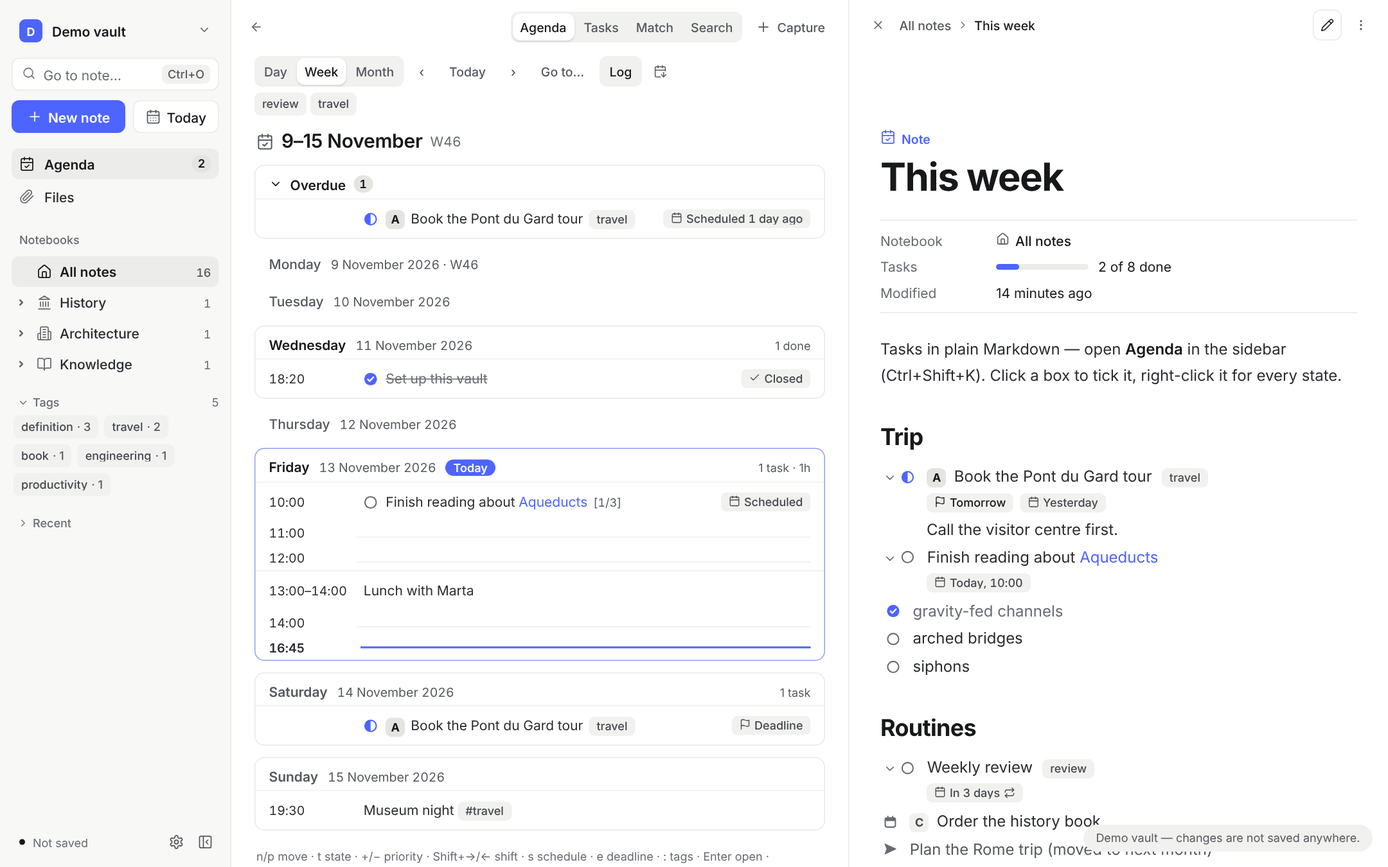
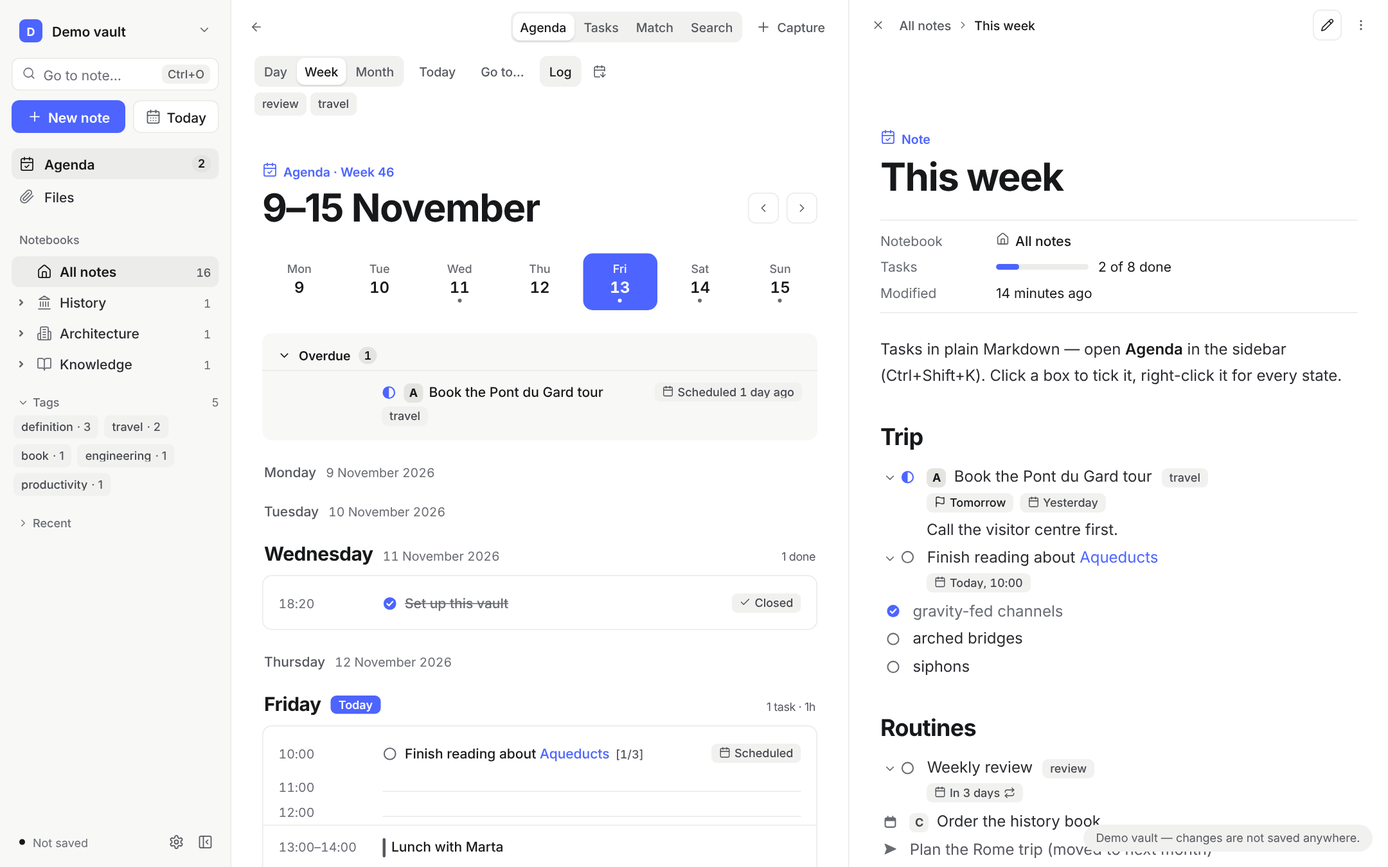
Restyle stage 7: the agenda
The agenda reads as a page of 760px: over its title, what it shows in
the accent ("Agenda · Week 46"); the days' and the month's title is at
the page's size with ‹ and › beside it, which leave the bar. The week's
strip of days shows at every width, today on the accent. Overdue is a
quiet block on the grey. Each day's name stands over the card of its
rows, today with a Today plate in place of its date; rows are roomier,
times faint, and an event gets a short bar where a task has its box.
The month marks today with a circle. The Tasks, Match and Search views
take the same head over their 20px sentence.

Tests: the week's number is read from the line over the title, › is
pressed at the title, and the agenda's title joins the note's as the
page's type. The README screenshots add the phone's agenda and a dark
note.

Claude-Session: https://claude.ai/code/session_01FMk1W3xjGAnUwDM3D7HQLZ

diff --git a/web/src/css/agenda.css b/web/src/css/agenda.css
@@ -32,34 +32,46 @@ button.sn-btn.wb-tasks.is-active { border-color: var(--accent); }
   .agbar > .sn-seg::-webkit-scrollbar { display: none; }
   .agbar > .sn-seg > button { flex: none; white-space: nowrap; }
 }
-.ag-body { display: flex; flex-direction: column; gap: var(--sp-12); min-height: 100%; padding: var(--sp-6) var(--sp-24) var(--sp-48); }
+/* the agenda reads as a page: one column of 760px at most, centred (restyle RS-55) */
+.ag-body { display: flex; flex-direction: column; gap: var(--sp-24); width: 100%; max-width: 760px; min-height: 100%; margin: 0 auto; padding: var(--sp-40) var(--sp-32) var(--sp-48); }
+@container (max-width: 560px) { .ag-body { padding: var(--sp-24) var(--sp-16) var(--sp-48); } }
 
-/* the screen title, in the look of the list of notes and Files (app.css) */
-.ag-title { display: flex; align-items: center; flex-wrap: wrap; gap: 0 var(--sp-8); padding: 0 var(--sp-2); color: var(--muted); font-size: var(--fs-lg); line-height: var(--lh-tight); }
-.ag-title b { color: var(--ink); font-weight: var(--fw-semibold); letter-spacing: -.01em; }
-.ag-title .ag-week { color: var(--faint); font-size: var(--fs-md); font-variant-numeric: tabular-nums; }
-/* a day (or the list of a TODO, match or search view) is a card, like a code block or a table */
+/* a view's head: what it shows in the accent, then its title at the page's size with ‹ and › beside it (RS-58, RS-59) */
+.ag-head { display: flex; flex-direction: column; gap: var(--sp-6); }
+.ag-kind { display: flex; align-items: center; gap: var(--sp-6); color: var(--accent); font-size: var(--fs-ui); font-weight: var(--fw-semibold); }
+.ag-kind svg { width: var(--icon-m); height: var(--icon-m); }
+.ag-title-row { display: flex; align-items: center; gap: var(--sp-8); min-width: 0; }
+.ag-title { flex: 1 1 auto; min-width: 0; color: var(--muted); font-size: var(--fs-lg); line-height: var(--lh-title); }
+.ag-title b { color: var(--ink); font-weight: var(--fw-semibold); }
+/* the days and the month: the title at the page's size; the lists keep their sentence at 20px */
+.ag-head.is-page .ag-title b { font-size: var(--fs-title); font-weight: var(--fw-bold); letter-spacing: var(--ls-title); }
+.sn-board button.clickable-icon.ag-nav { flex: none; width: var(--ctl-l); height: var(--ctl-l); padding: 0; border: 1px solid var(--line); border-radius: var(--r-s); }
+.sn-board button.clickable-icon.ag-nav:hover { background: var(--hover-bg); }
+/* a TODO, match or search view lists its rows on a card, like a code block or a table */
 .ag-card { border: 1px solid var(--line); border-radius: var(--r-m); background: var(--win); overflow: hidden; }
-.ag-card.is-today { border-color: color-mix(in srgb, var(--accent) 55%, var(--line)); }
-.ag-day { display: flex; align-items: baseline; gap: var(--sp-10); padding: var(--sp-10) var(--sp-14); font-weight: var(--fw-semibold); font-size: var(--fs-md); color: var(--ink); text-transform: capitalize; }
-.ag-card:not(.is-empty) > .ag-day { padding-bottom: var(--sp-6); }
+/* a day: its head over the card of its rows (RS-62 to RS-64) */
+.ag-card.is-day { border: 0 solid transparent; background: none; overflow: visible; }
+.ag-rows { padding: var(--sp-6) 0; border: 1px solid var(--line); border-radius: var(--r-m); background: var(--win); overflow: hidden; }
+.ag-day { display: flex; align-items: baseline; gap: var(--sp-10); padding: 0 var(--sp-2) var(--sp-10); color: var(--ink); font-size: var(--fs-lg); font-weight: var(--fw-bold); letter-spacing: -.015em; text-transform: capitalize; }
 /* a day without entries is one quiet line, not a card (spec UI-15) */
-.ag-card.is-empty { border-color: transparent; background: none; }
-.ag-card.is-empty > .ag-day { min-height: 0; padding-block: var(--sp-4); color: var(--muted); font-weight: var(--fw-regular); }
-.ag-card.is-empty > .ag-day > span:first-child { font-weight: var(--fw-medium); }
-.ag-day .num { font-weight: var(--fw-regular); color: var(--muted); font-size: var(--fs-ui); font-variant-numeric: tabular-nums; text-transform: none; }
-.ag-day.weekend:not(.today) { color: var(--muted); }
-.today-pill { font-size: var(--fs-sm); background: var(--accent); color: var(--win); padding: 1px var(--sp-8); border-radius: var(--r-pill); }
+.ag-card.is-empty > .ag-day { min-height: 0; padding-block: 0; color: var(--muted); font-size: var(--fs-md); font-weight: var(--fw-medium); letter-spacing: 0; }
+.ag-day .num { color: var(--faint); font-size: var(--fs-ui); font-weight: var(--fw-regular); letter-spacing: 0; font-variant-numeric: tabular-nums; text-transform: none; }
+.ag-day.weekend:not(.today) { color: var(--ink); }
+.ag-card.is-empty > .ag-day.weekend { color: var(--muted); }
+.today-pill { align-self: center; padding: var(--sp-2) var(--sp-8); border-radius: var(--r-xs); background: var(--cta); color: var(--on-accent); font-size: var(--fs-sm); font-weight: var(--fw-semibold); letter-spacing: 0; line-height: var(--lh-tight); }
 /* a row reads time, then the task with the note it is in, quietly after it (spec UI-18), then its date chip at the right;
    the note's name is left out when every row comes from one note (.one-cat, agenda.js) */
-.ag-row, .ag-grid { display: grid; grid-template-columns: 11ch minmax(0, 1fr) auto; grid-template-areas: "time main lab"; align-items: baseline; column-gap: var(--sp-8); padding: var(--sp-8) var(--sp-14); font-variant-numeric: tabular-nums; }
+.ag-row, .ag-grid { display: grid; grid-template-columns: 92px minmax(0, 1fr) auto; grid-template-areas: "time main lab"; align-items: baseline; column-gap: var(--sp-16); padding: var(--sp-10) var(--sp-16); font-variant-numeric: tabular-nums; }
 .ag-body.one-cat .ag-cat { display: none; }
 .ag-body.no-time .ag-row { grid-template-columns: minmax(0, 1fr) auto; grid-template-areas: "main lab"; }
 .ag-body.no-time .ag-row .ag-time { display: none; }
 .ag-time { grid-area: time; } .ag-main { grid-area: main; } .ag-lab { grid-area: lab; }
 .ag-meta { display: contents; }
-.ag-row { cursor: pointer; position: relative; border-top: 1px solid color-mix(in srgb, var(--line) 70%, transparent); }
-.ag-card > .ag-row:first-child { border-top: 0; }
+.ag-row { cursor: pointer; position: relative; border-top: 1px solid var(--line); }
+:is(.ag-card, .ag-rows) > .ag-row:first-child { border-top: 0; }
+.ag-main { color: var(--ink); font-size: var(--fs-md); font-weight: var(--fw-medium); }
+/* an event has no box: a short bar stands in its place (RS-67) */
+.ag-ev-bar { display: inline-block; width: 3px; height: 20px; margin-right: var(--sp-10); vertical-align: middle; border-radius: 2px; background: var(--muted); }
 .ag-row:hover { background: var(--hover-bg); }
 .ag-row.is-selected { background: var(--accent-soft); }
 /* the keyboard's place in the agenda: a ring on the chosen row, or on the list while none is chosen (spec A11Y-2) */
@@ -68,11 +80,15 @@ body.sn-kb .ag-body:focus-visible .ag-row.is-selected { box-shadow: var(--ring-i
 body.sn-kb .ag-body:focus-visible:not(:has(.ag-row.is-selected)) { box-shadow: var(--ring-inset); }
 .ag-main .ag-cat { margin-left: var(--sp-6); color: var(--faint); font-size: var(--fs-ui); white-space: nowrap; }
 .ag-main .ag-cat::before { content: "· "; }
-.ag-time { color: var(--fg); font-size: var(--fs-ui); white-space: nowrap; }
+.ag-time { color: var(--faint); font-size: var(--fs-ui); white-space: nowrap; }
 .ag-lab { max-width: 20ch; color: var(--muted); font-size: var(--fs-ui); white-space: nowrap; overflow: hidden; text-overflow: ellipsis; }
 /* the label is a chip: a calendar for a scheduled date (grey), a flag for a deadline (red when due, amber in its warning days) */
-/* overdue entries, gathered above today */
-.ag-overdue.is-closed > .ag-day { padding-bottom: var(--sp-10); }
+/* overdue entries, gathered above today: a quiet block on the grey, its head inside it (RS-61) */
+.ag-card.ag-overdue { border: 0; background: var(--bg); }
+.ag-overdue > .ag-day { padding: var(--sp-14) var(--sp-16) var(--sp-6); font-size: var(--fs-ui); font-weight: var(--fw-semibold); letter-spacing: 0; }
+.ag-overdue.is-closed > .ag-day { padding-bottom: var(--sp-14); }
+.ag-overdue > .ag-row { border-top-color: var(--line); }
+.ag-overdue > .ag-row:last-child { padding-bottom: var(--sp-14); }
 button.ag-over-head, button.ag-over-head:not(.clickable-icon) { gap: var(--sp-8); padding: 0; border: 0; background: none; font: inherit; color: var(--ink); cursor: pointer; }
 .ag-over-chev { display: inline-flex; }
 .ag-over-chev svg { width: var(--icon-s); height: var(--icon-s); transition: transform var(--dur-1) var(--ease); }
@@ -97,7 +113,7 @@ button.ag-over-head, button.ag-over-head:not(.clickable-icon) { gap: var(--sp-8)
 .ag-act button:hover { border-color: var(--faint); }
 /* the hours of today's grid: quiet markers, each on a line of its own height */
 .ag-grid { align-items: center; min-height: 26px; color: var(--faint); padding-block: 0; font-size: var(--fs-sm); }
-.ag-grid .dots { grid-column: main-start / lab-end; align-self: center; overflow: hidden; white-space: nowrap; border-bottom: 1px solid color-mix(in srgb, var(--line) 80%, transparent); height: .75em; }
+.ag-grid .dots { grid-column: main-start / lab-end; align-self: center; overflow: hidden; white-space: nowrap; border-bottom: 1px solid var(--line); height: .75em; }
 .ag-grid.now { color: var(--ink); font-weight: var(--fw-semibold); }
 .ag-grid.now .dots { border-bottom: 2px solid var(--accent); font-size: 0; }
 .ag-help { padding: 0 var(--sp-2); color: var(--faint); font-size: var(--fs-sm); line-height: var(--lh-ui); max-width: 76ch; }
@@ -306,18 +322,25 @@ audio.fv-media { width: min(520px, 100%); }
   .fv-pbody { padding: var(--sp-10); }
 }
 
-/* the week strip: phones only */
-.ag-strip { display: none; }
+/* the week as a strip of days, at every width (RS-60): today on the accent, the day shown (in the day view) on the grey;
+   a dot where something is on. The month's button is the phone's: wide screens have Month in the bar */
+.ag-strip { display: flex; align-items: stretch; gap: var(--sp-6); }
+button.ag-strip-day, button.ag-strip-month { flex: 1 1 0; display: flex; flex-direction: column; align-items: center; gap: var(--sp-2); min-width: 0; height: auto; padding: var(--sp-8) 0; border: 0; border-radius: var(--r-m); background: none; box-shadow: none; color: var(--faint); font-family: var(--font-ui); }
+button.ag-strip-day:hover, button.ag-strip-month:hover { background: var(--hover-bg); }
+button.ag-strip-month { display: none; flex: 0 0 40px; justify-content: center; }
+.ag-strip-day .wd { font-size: var(--fs-sm); text-transform: capitalize; }
+.ag-strip-day .dn { color: var(--ink); font-size: var(--fs-text); font-weight: var(--fw-semibold); font-variant-numeric: tabular-nums; }
+.ag-strip-day .dot { width: 4px; height: 4px; border-radius: 50%; }
+.ag-strip-day .dot.has { background: var(--faint); }
+button.ag-strip-day.is-selected { background: var(--sel); }
+button.ag-strip-day.is-selected .wd { color: var(--muted); }
+button.ag-strip-day.is-today, button.ag-strip-day.is-today:hover { background: var(--cta); color: var(--on-accent); }
+.ag-strip-day.is-today :is(.wd, .dn) { color: var(--on-accent); }
+.ag-strip-day.is-today .dn { font-weight: var(--fw-bold); }
+.ag-strip-day.is-today .dot.has { background: var(--on-accent); }
 @media (max-width: 820px) {
-  .ag-strip { display: flex; align-items: stretch; gap: var(--sp-2); padding: var(--sp-2); border-radius: var(--r-m); background: var(--panel); }
-  button.ag-strip-day, button.ag-strip-month { flex: 1 1 0; display: flex; flex-direction: column; align-items: center; gap: 1px; min-width: 0; height: 52px; padding: var(--sp-4) 0 var(--sp-4); border: 0; border-radius: var(--r-m); background: none; box-shadow: none; color: var(--muted); font-family: var(--font-ui); }
-  button.ag-strip-month { flex: 0 0 40px; justify-content: center; }
-  .ag-strip-day .wd { font-size: var(--fs-sm); text-transform: capitalize; }
-  .ag-strip-day .dn { font-size: var(--fs-text); font-weight: var(--fw-semibold); color: var(--ink); font-variant-numeric: tabular-nums; }
-  .ag-strip-day .dot { width: 4px; height: 4px; border-radius: 50%; }
-  .ag-strip-day .dot.has { background: var(--muted); }
-  .ag-strip-day.is-today .dn { color: var(--accent); }
-  .ag-strip-day.is-selected { background: var(--win); box-shadow: var(--shadow-1); }
+  .ag-strip { gap: var(--sp-2); }
+  button.ag-strip-month { display: flex; }
 }
 
 /* the month (TASK-4): a grid of days, each with how many entries it has; a day of another month is quiet */
@@ -325,13 +348,13 @@ audio.fv-media { width: min(520px, 100%); }
 .ag-month-row { display: grid; grid-template-columns: repeat(7, minmax(0, 1fr)); gap: var(--sp-4); }
 .ag-month-head span { padding: 0 var(--sp-6); color: var(--muted); font-size: var(--fs-sm); text-transform: capitalize; }
 button.ag-mday { display: flex; flex-direction: column; align-items: flex-start; justify-content: space-between; gap: var(--sp-4); min-width: 0; height: auto; min-height: 64px; padding: var(--sp-6) var(--sp-8); border: 1px solid var(--line); border-radius: var(--r-m); background: var(--win); box-shadow: none; color: var(--fg); font-family: var(--font-ui); font-weight: var(--fw-regular); text-align: left; }
-button.ag-mday:hover { border-color: color-mix(in srgb, var(--accent) 45%, var(--line)); }
+button.ag-mday:hover { border-color: var(--line-hover); }
 button.ag-mday.weekend .dn { color: var(--muted); }
 button.ag-mday.is-out { background: none; border-color: transparent; }
 button.ag-mday.is-out .dn { color: var(--faint); }
-button.ag-mday.is-today { border-color: var(--accent); }
-button.ag-mday.is-today .dn { color: var(--accent); font-weight: var(--fw-semibold); }
-button.ag-mday .cnt { align-self: flex-end; min-width: 20px; padding: 0 var(--sp-6); border-radius: var(--r-pill); background: var(--accent-soft); color: color-mix(in srgb, var(--accent) 80%, var(--ink)); font-size: var(--fs-sm); font-weight: var(--fw-semibold); line-height: 18px; text-align: center; }
+/* today: its number in a circle of the accent (RS-70) */
+button.ag-mday.is-today .dn { display: inline-flex; align-items: center; justify-content: center; width: var(--ctl-s); height: var(--ctl-s); margin: calc(var(--sp-2) * -1) 0 0 calc(var(--sp-4) * -1); border-radius: 50%; background: var(--cta); color: var(--on-accent); font-weight: var(--fw-semibold); }
+button.ag-mday .cnt { align-self: flex-end; min-width: 20px; padding: 0 var(--sp-6); border-radius: var(--r-pill); background: var(--panel-strong); color: var(--ink); font-size: var(--fs-sm); font-weight: var(--fw-semibold); line-height: 18px; text-align: center; }
 @media (max-width: 820px) {
   .ag-month, .ag-month-row { gap: var(--sp-2); }
   button.ag-mday { min-height: 48px; padding: var(--sp-4); }

diff --git a/web/src/js/ui/agenda.js b/web/src/js/ui/agenda.js
@@ -3,7 +3,7 @@
    ========================================================= */
 import { LANG, t, tt } from "../core/i18n.js";
 import { baseName, debounce, norm } from "../core/util.js";
-import { oaddMonths, oFmt, ohm, oisoWeek, onow, opad, orgCache, orgRelDay, orgDayEntries, orgNowTs, orgPriRank, orgReadDate, orgShift, orgSkip, orgStats, orgTsStr, orgWithGrid, oymd, TASK_STATES } from "../core/org.js";
+import { oaddMonths, oFmt, ohm, oisoWeek, onow, orgCache, orgRelDay, orgDayEntries, orgNowTs, orgPriRank, orgReadDate, orgShift, orgSkip, orgStats, orgTsStr, orgWithGrid, oymd, TASK_STATES } from "../core/org.js";
 import { lsGet, lsSet } from "../services/storage.js";
 import { board, vault } from "../services/state.js";
 import { persistBoard } from "../services/vault.js";
@@ -111,10 +111,16 @@ export function dayRange(a, b, T) {
   if (A.y === B.y && A.m === B.m) return `${A.d}–${oFmt(b, "D MMMM")}${year(B)}`;
   return `${oFmt(a, "D MMMM")}${A.y !== B.y ? year(A) : ""} – ${oFmt(b, "D MMMM")}${year(B)}`;
 }
+/** A view's head (restyle RS-58, RS-59): what it shows, in the accent over its title; the agenda's days have ‹ and › beside it. */
+function agHead(icon, kind, title, nav) {
+  const row = h("div", { cls: "ag-title-row" }, title);
+  if (nav) row.append(iconBtn("chevron-left", tt("earlier"), () => orgNav(-1), "ag-nav"), iconBtn("chevron-right", tt("later"), () => orgNav(1), "ag-nav"));
+  return h("div", { cls: "ag-head" + (nav ? " is-page" : "") }, h("div", { cls: "ag-kind" }, ic("", icon), h("span", { text: kind })), row);
+}
 function renderMonth(body, all, T, pass) {
   const first = AG.anchor - (oymd(AG.anchor).d - 1), next = oaddMonths(first, 1);
   const start = first - ((oymd(first).w + 6) % 7), weeks = Math.ceil((next - start) / 7);
-  body.append(h("div", { cls: "ag-title", title: tt("monthAgenda") }, ic("sn-list-badge", "calendar-days"), h("b", { text: oFmt(first, "MMMM YYYY") })));
+  body.append(agHead("calendar-days", tt("vAgenda"), h("div", { cls: "ag-title", title: tt("monthAgenda") }, h("b", { text: oFmt(first, "MMMM YYYY") })), true));
   const grid = h("div", { cls: "ag-month", role: "grid", "aria-label": oFmt(first, "MMMM YYYY") });
   const head = h("div", { cls: "ag-month-row ag-month-head", role: "row" });
   for (let i = 0; i < 7; i++) head.append(h("span", { role: "columnheader", text: oFmt(start + i, "ddd") }));
@@ -176,7 +182,7 @@ export function renderTasksView(root) {
   if (AG.view === "agenda") {
     const sp = h("div", { cls: "sn-seg" });
     for (const [v, k, key] of [["day", "day", "d"], ["week", "week", "w"], ["month", "month", "M"]]) { const b = h("button", { cls: "clickable-icon" + (AG.span === v ? " is-active" : ""), type: "button", text: tt(k), title: `${tt(k)} (${key})` }); b.addEventListener("click", () => { AG.span = v; saveAG(); renderBoard(); }); sp.append(b); }
-    agbar.append(sp, btn("‹", tt("earlier"), () => orgNav(-1)), btn(tt("today"), tt("today") + " (.)", () => orgNav(0)), btn("›", tt("later"), () => orgNav(1)),
+    agbar.append(sp, btn(tt("today"), tt("today") + " (.)", () => orgNav(0)),
       btn(tt("goTo"), tt("goTo") + " (j)", () => orgNav("jump"), null, "ag-wide-only"), btn(tt("log"), tt("log") + " (l)", () => { AG.log = !AG.log; saveAG(); renderBoard(); }, AG.log, "ag-wide-only"),
       iconBtn("calendar-arrow-down", tt("icsExport"), exportCalendar, "ag-wide-only ag-ics"));
   } else if (AG.view === "todo") {
@@ -244,9 +250,9 @@ export function renderTasksView(root) {
   else if (AG.view === "agenda") {
     const days = AG.span === "day" ? [AG.anchor] : Array.from({ length: 7 }, (_, i) => AG.anchor - ((oymd(AG.anchor).w + 6) % 7) + i);
     // the title says which days ("9–15 November", or the day), the week's number beside it; the log is the bar's toggle
-    body.append(h("div", { cls: "ag-title", title: tt(AG.span === "week" ? "weekAgenda" : "dayAgenda") }, ic("sn-list-badge", "calendar-check"),
-      h("b", { text: AG.span === "week" ? dayRange(days[0], days[6], T) : oFmt(days[0], "dddd, D MMMM") + (oymd(days[0]).y !== oymd(T).y ? " " + oymd(days[0]).y : "") }),
-      h("span", { cls: "ag-week", text: `W${opad(oisoWeek(days[0]))}` })));
+    body.append(agHead("calendar-check", tt("vAgenda") + " · " + tt("weekN", { n: oisoWeek(days[0]) }),
+      h("div", { cls: "ag-title", title: tt(AG.span === "week" ? "weekAgenda" : "dayAgenda") },
+        h("b", { text: AG.span === "week" ? dayRange(days[0], days[6], T) : oFmt(days[0], "dddd, D MMMM") + (oymd(days[0]).y !== oymd(T).y ? " " + oymd(days[0]).y : "") })), true));
     // on a phone: the week as a strip of days (a dot where something is on), a tap opens that day; the month is one more tap
     const week0 = AG.anchor - ((oymd(AG.anchor).w + 6) % 7);
     const strip = h("div", { cls: "ag-strip", role: "toolbar", "aria-label": tt("week") });
@@ -274,31 +280,32 @@ export function renderTasksView(root) {
       let ents = orgDayEntries(dn, all, T, { log: AG.log, carried: days.includes(T) }).filter((x) => pass(x.e));
       if (dn === T) ents = ents.filter((x) => !x.overdue);
       const sum = daySummary(ents);
-      const card = h("section", { cls: "ag-card" + (dn === T ? " is-today" : "") + (ents.length ? "" : " is-empty") });
+      // a day's head over a card of its rows (restyle RS-62 to RS-64); today says so in place of its date
+      const card = h("section", { cls: "ag-card is-day" + (dn === T ? " is-today" : "") + (ents.length ? "" : " is-empty") });
       card.append(h("div", { cls: "ag-day" + (dn === T ? " today" : "") + (o.w === 0 || o.w === 6 ? " weekend" : "") },
-        h("span", { text: oFmt(dn, "dddd") }), h("span", { cls: "num", text: oFmt(dn, "D MMMM YYYY") + (o.w === 1 || AG.span === "day" ? ` · W${opad(oisoWeek(dn))}` : "") }),
-        dn === T ? h("span", { cls: "today-pill", text: tt("today").toLowerCase() }) : null,
+        h("span", { text: oFmt(dn, "dddd") }),
+        dn === T ? h("span", { cls: "today-pill", text: tt("today") }) : h("span", { cls: "num", text: oFmt(dn, "D MMMM YYYY") }),
         sum ? h("span", { cls: "ag-sum", text: sum }) : null));
       if (dn === T) ents = orgWithGrid(ents);
-      for (const x of ents) card.append(orgRow(x));
+      if (ents.length) { const rows = h("div", { cls: "ag-rows" }); for (const x of ents) rows.append(orgRow(x)); card.append(rows); }
       body.append(card);
     }
   } else if (AG.view === "todo") {
     const items = all.filter((e) => e.isTodo && !e.done && !orgSkip(e) && (AG.todoKw === "ALL" || e.kw === AG.todoKw) && pass(e))
       .sort((a, b) => orgPriRank(b) - orgPriRank(a) || (a.category < b.category ? -1 : a.category > b.category ? 1 : a.line - b.line));
-    body.append(h("div", { cls: "ag-title" }, ic("sn-list-badge", "list-todo"), tt("todoTitle") + " ", h("b", { text: AG.todoKw === "ALL" ? tt("stAll") : tt("st_" + AG.todoKw) }), ` · ${items.length}`));
+    body.append(agHead("list-todo", tt("vTodo"), h("div", { cls: "ag-title" }, tt("todoTitle") + " ", h("b", { text: AG.todoKw === "ALL" ? tt("stAll") : tt("st_" + AG.todoKw) }), ` · ${items.length}`)));
     if (items.length) body.append(h("section", { cls: "ag-card" }, items.map((e) => orgRow({ e, kind: "todo", label: "", time: null, dn: null }))));
     if (!items.length) body.append(h("div", { cls: "ag-help", text: tt("noTodo") }));
   } else if (AG.view === "match") {
     const fn = orgMatcher(AG.match);
     const items = all.filter((e) => !orgSkip(e) && e.kind !== "event" && fn(e) && pass(e));
-    body.append(h("div", { cls: "ag-title" }, ic("sn-list-badge", "filter"), tt("matchTitle") + " ", h("b", { text: AG.match || tt("everything") }), ` · ${items.length}`));
+    body.append(agHead("filter", tt("vMatch"), h("div", { cls: "ag-title" }, tt("matchTitle") + " ", h("b", { text: AG.match || tt("everything") }), ` · ${items.length}`)));
     if (items.length) body.append(h("section", { cls: "ag-card" }, items.map((e) => orgRow({ e, kind: "match", label: "", time: null, dn: null }))));
     if (!items.length) body.append(h("div", { cls: "ag-help", text: tt("noMatch") }));
     body.append(h("div", { cls: "ag-help", text: tt("matchHelp") }));
   } else {
     const words = norm(AG.search).split(/\s+/).filter(Boolean);
-    body.append(h("div", { cls: "ag-title" }, ic("sn-list-badge", "search"), tt("searchTitle") + " ", h("b", { text: AG.search || tt("typeSomething") })));
+    body.append(agHead("search", tt("vSearch"), h("div", { cls: "ag-title" }, tt("searchTitle") + " ", h("b", { text: AG.search || tt("typeSomething") }))));
     if (words.length) {
       const items = all.filter((e) => {
         if (orgSkip(e) || !pass(e)) return false;
@@ -374,6 +381,7 @@ function orgRow(x) {
   const main = h("span", { cls: "ag-main" });
   // a task's priority colours its box; only the top one also gets a letter, so it does not rest on colour alone
   if (e.isTodo) { const b = taskBox(e.state, { dataset: { act: "tick" } }); if (e.pri) { b.title +=` · ${tt("priority")} ${e.pri}`; } main.append(b); }
+  else if (e.kind === "event") main.append(h("span", { cls: "ag-ev-bar", "aria-hidden": "true" }));
   if (e.pri && (!e.isTodo || e.pri === "A")) main.append(h("span", { cls: `pri ${e.pri}`, text: e.isTodo ? e.pri : `[#${e.pri}]`, title: `${tt("priority")} ${e.pri}` }));
   main.append(renderInline(e.title, e.path));
   if (e.cbTotal) main.append(h("span", { cls: "ag-cookie", text: `[${e.cbDone}/${e.cbTotal}]` }));

diff --git a/web/src/js/core/strings.js b/web/src/js/core/strings.js
@@ -175,7 +175,7 @@ export const TSTR = {
   en: {
     tasks: "Agenda", tasksHint: "Agenda & task list",
     vAgenda: "Agenda", vTodo: "Tasks", vMatch: "Match", vSearch: "Search",
-    day: "Day", week: "Week", today: "Today", earlier: "Earlier (b)", later: "Later (f)", goTo: "Go to…", log: "Log",
+    day: "Day", week: "Week", weekN: "Week {n}", today: "Today", earlier: "Earlier (b)", later: "Later (f)", goTo: "Go to…", log: "Log",
     icsExport: "Export to a calendar (.ics)", icsNone: "No dated tasks or events to export", icsDone: ["Exported {n} entry for a calendar app", "Exported {n} entries for a calendar app"],
     capture: "Capture", weekAgenda: "Week", dayAgenda: "Day", monthAgenda: "Month", sumEntries: ["{n} entry", "{n} entries"],
     todoTitle: "Open tasks:", matchTitle: "Entries matching:", searchTitle: "Search words:",
@@ -209,7 +209,7 @@ export const TSTR = {
   ru: {
     tasks: "Агенда", tasksHint: "Агенда и список задач",
     vAgenda: "Агенда", vTodo: "Задачи", vMatch: "Отбор", vSearch: "Поиск",
-    day: "День", week: "Неделя", today: "Сегодня", earlier: "Раньше (b)", later: "Позже (f)", goTo: "К дате…", log: "Журнал",
+    day: "День", week: "Неделя", weekN: "неделя {n}", today: "Сегодня", earlier: "Раньше (b)", later: "Позже (f)", goTo: "К дате…", log: "Журнал",
     icsExport: "Выгрузить в календарь (.ics)", icsNone: "Нет задач и событий с датами для выгрузки", icsDone: ["Выгружена {n} запись для календаря", "Выгружены {n} записи для календаря", "Выгружено {n} записей для календаря"],
     capture: "Записать", weekAgenda: "Неделя", dayAgenda: "День", monthAgenda: "Месяц", sumEntries: ["{n} запись", "{n} записи", "{n} записей"],
     todoTitle: "Открытые задачи:", matchTitle: "Записи по запросу:", searchTitle: "Поиск слов:",

diff --git a/web/src/css/app.css b/web/src/css/app.css
@@ -342,6 +342,7 @@ button.sn-row-enter:hover, .sn-row:focus-visible button.sn-row-enter { backgroun
   /* buttons a finger can hit: 40px at least, the drawing inside them as it was (spec UI-9) */
   #app :is(.sn-topbar, .sn-editor-head, .agbar, .sn-ed-toolbar) :is(button, a[href]),
   #app button.ag-over-head { min-height: var(--ctl-touch); }
+  #app .sn-board button.clickable-icon.ag-nav { width: var(--ctl-touch); height: var(--ctl-touch); }
   #app :is(.sn-topbar, .sn-editor-head, .agbar, .sn-ed-toolbar) :is(button.clickable-icon, button.sn-tb-btn, button.sn-tb-insert, button.sn-mode-btn, button.ag-btn, button.ag-capture) { min-width: 40px; }
 }
 

diff --git a/docs/restyle-specification.md b/docs/restyle-specification.md
@@ -241,23 +241,23 @@
 
 | № | Требование | Проверка | Статус |
 |---|---|---|---|
-| RS-55 | Содержимое повестки (`.ag-body`): колонка до 760 px по центру, поля 40 px сверху и 32 px по бокам; между блоками 24 px. Когда рядом открыта заметка и колонка уже 560 px — поля 24 и 16 px. | Замер на 1440 px без заметки и с заметкой. | |
-| RS-56 | Верхний ряд: переключатель видов слева, «Capture» справа. Переключатели (`.sn-seg`): дорожка `--panel` с углом `--r-s`, сегмент 28 px с углом `--r-xs`, выбранный — `--win` и `--shadow-1`, 13 px 500. «Capture» (`button.ag-capture`): 32 px, рамка `--line`, угол `--r-s`, текст `--ink` 500. | Замер. | |
-| RS-57 | Второй ряд (`.agbar`): «Day / Week / Month», «Today», «Go to…», «Log», выгрузка — как сейчас, в новом оформлении кнопок. Кнопки «‹» и «›» переезжают к заголовку (RS-59). Ряд фильтров по тегам остаётся, чипы — по RS-52. | Все кнопки работают; `tests/calendar.test.mjs` проходит. | |
-| RS-58 | Над заголовком — подпись (`.ag-kind`): значок 16 px и текст, 13 px, 600, `--accent`. Неделя и день: «Agenda · Week 46»; месяц: «Agenda»; списки: «Tasks», «Match», «Search». Отдельный номер недели (`.ag-week`, «W46») и значок перед заголовком (`.sn-list-badge` в `.ag-title`) убираются. | Тест текста на обоих языках. | |
-| RS-59 | Заголовок (`.ag-title b`): `--fs-title`, 700, `--ls-title`, `--lh-title`, `--ink`; текст по UI-16. Справа в той же строке — «‹» и «›»: 32 × 32 px, рамка `--line`, угол `--r-s`, значок 14 px, между ними 8 px. | Тест текста заголовка из UI-16 проходит; кнопки листают. | |
-| RS-60 | Полоса недели (`.ag-strip`, `agenda.js:252`) показывается при любой ширине в видах «день» и «неделя» (сейчас только на телефоне, `agenda.css:315`). Семь равных колонок, шаг 6 px, фона у полосы нет. День: столбец, поля 8 px сверху и снизу, угол `--r-m`; день недели 12 px `--faint`, число 16 px 600 `--ink`, точка 4 px `--faint` там, где есть записи. Сегодня: фон `--cta`, оба текста и точка `--on-accent`, число 700. Выбранный в виде «день» — фон `--sel`. Под указателем — `--hover-bg`. Кнопка месяца (`.ag-strip-month`) — только на телефоне. | Замер на 1440 и 412 px; нажатие открывает день. | |
-| RS-61 | «Overdue»: заголовок-кнопка (`button.ag-over-head`) 13 px, 600, `--ink` (сейчас `--todo`), стрелка сворачивания и счётчик по RS-14. Содержимое — блок без рамки: фон `--bg`, угол `--r-m`, поля 14 и 16 px. | Замер; сворачивание работает. | |
-| RS-62 | Заголовок дня (`.ag-day`) стоит над карточкой, а не внутри неё: день недели 20 px, 700, −0,015em, `--ink`; дата (`.num`) 13 px, `--faint`; справа итог (`.ag-sum`) 13 px, `--faint`. 10 px до карточки. | Замер: заголовок выше верхнего края рамки. | |
-| RS-63 | Сегодня: вместо даты — плашка «Today» (`.today-pill`) с заглавной буквы: фон `--cta`, текст `--on-accent`, 12 px 600, угол `--r-xs`, поля 2 и 8 px. Акцентной рамки у сегодняшней карточки нет (`agenda.css:45` удаляется). | Замер; текст «Today» и «Сегодня». | |
-| RS-64 | Карточка дня (`.ag-card`): рамка 1 px `--line`, угол `--r-m`, фон `--win`, поля 6 px сверху и снизу, 16 px по бокам. Строки разделены линией 1 px `--line`; у первой линии нет. | Замер. | |
-| RS-65 | Пустой день — одна приглушённая строка без рамки и фона (UI-15): день недели 14 px, 500, `--muted`; дата 13 px, `--faint`. | Тест UI-15 в `tests/calendar.test.mjs` проходит. | |
-| RS-66 | Строка (`.ag-row`): поля 10 px сверху и снизу, шаг 16 px. Время (`.ag-time`): колонка 92 px, 13 px, `--faint`, табличные цифры. Название: 14 px, 500, `--ink`. Справа чип вида записи («Scheduled», «Deadline», «Closed») по RS-52 и RS-53. Выбранная с клавиатуры строка — как сейчас, с кольцом. | `tests/a11y.test.mjs` (проход по повестке) проходит. | |
-| RS-67 | Событие без состояния задачи получает метку перед названием (`.ag-ev-bar`, новый элемент): 3 × 20 px, угол 2 px, `--muted`. | Замер у «Lunch with Marta» в демо-хранилище. | |
-| RS-68 | Линия «сейчас» (`.ag-grid.now`): время 13 px, 600, `--ink`; линия 2 px `--accent` (сейчас `--now`). Сетка часов (UI-14) — линии 1 px `--line`, подписи 13 px `--faint`. | Тест UI-14 проходит; замер цвета линии. | |
-| RS-69 | Закрытая задача в журнале: галочка в круге `--cta`, название зачёркнуто, `--faint`, чип «Closed» обычного тона. | Снимок с включённым «Log». | |
-| RS-70 | Месяц (`button.ag-mday`): рамка `--line`, угол `--r-m`; сегодня — число в круге 24 px с фоном `--cta` и текстом `--on-accent` вместо акцентной рамки; счётчик (`.cnt`) — `--panel-strong`, `--ink`. | Замер; TASK-4 проходит. | |
-| RS-71 | Строка клавиш (`.ag-help`): 12 px, `--faint`; на устройствах без наведения скрыта (UI-11). | `tests/phone.test.mjs`. | |
+| RS-55 | Содержимое повестки (`.ag-body`): колонка до 760 px по центру, поля 40 px сверху и 32 px по бокам; между блоками 24 px. Когда рядом открыта заметка и колонка уже 560 px — поля 24 и 16 px. Сделано: узкая колонка — через `@container`. | Замер на 1440 px без заметки и с заметкой. | ✅ |
+| RS-56 | Верхний ряд: переключатель видов слева, «Capture» справа. Переключатели (`.sn-seg`): дорожка `--panel` с углом `--r-s`, сегмент 28 px с углом `--r-xs`, выбранный — `--win` и `--shadow-1`, 13 px 500. «Capture» (`button.ag-capture`): 32 px, рамка `--line`, угол `--r-s`, текст `--ink` 500. Переключатели и «Capture» оставлены прежнего вида: дорожка и сегменты уже были `--panel` / `--win` с тенью, углы — из новых переменных. | Замер. | ✅ |
+| RS-57 | Второй ряд (`.agbar`): «Day / Week / Month», «Today», «Go to…», «Log», выгрузка — как сейчас, в новом оформлении кнопок. Кнопки «‹» и «›» переезжают к заголовку (RS-59). Ряд фильтров по тегам остаётся, чипы — по RS-52. Сделано: «‹» и «›» ушли из ряда к заголовку; клавиши `b` и `f` работают как раньше. Тест месяца нажимает «›» у заголовка. | Все кнопки работают; `tests/calendar.test.mjs` проходит. | ✅ |
+| RS-58 | Над заголовком — подпись (`.ag-kind`): значок 16 px и текст, 13 px, 600, `--accent`. Неделя и день: «Agenda · Week 46»; месяц: «Agenda»; списки: «Tasks», «Match», «Search». Отдельный номер недели (`.ag-week`, «W46») и значок перед заголовком (`.sn-list-badge` в `.ag-title`) убираются. Сделано (`agHead` в `agenda.js`, строка `weekN`); по-русски слово вида — «Агенда», как в переключателе. Тест заголовка недели проверяет подпись «Agenda · Week 44». | Тест текста на обоих языках. | ✅ |
+| RS-59 | Заголовок (`.ag-title b`): `--fs-title`, 700, `--ls-title`, `--lh-title`, `--ink`; текст по UI-16. Справа в той же строке — «‹» и «›»: 32 × 32 px, рамка `--line`, угол `--r-s`, значок 14 px, между ними 8 px. Сделано с отличием: 40 px — только у дней и месяца (`.ag-head.is-page`); в видах «Tasks», «Match», «Search» заголовок — фраза («Open tasks: All · 5») и остаётся 20 px. Стрелки на телефоне — 40 px (UI-9). | Тест текста заголовка из UI-16 проходит; кнопки листают. | ✅ |
+| RS-60 | Полоса недели (`.ag-strip`, `agenda.js:252`) показывается при любой ширине в видах «день» и «неделя» (сейчас только на телефоне, `agenda.css:315`). Семь равных колонок, шаг 6 px, фона у полосы нет. День: столбец, поля 8 px сверху и снизу, угол `--r-m`; день недели 12 px `--faint`, число 16 px 600 `--ink`, точка 4 px `--faint` там, где есть записи. Сегодня: фон `--cta`, оба текста и точка `--on-accent`, число 700. Выбранный в виде «день» — фон `--sel`. Под указателем — `--hover-bg`. Кнопка месяца (`.ag-strip-month`) — только на телефоне. Сделано; на телефоне по-прежнему с кнопкой месяца. | Замер на 1440 и 412 px; нажатие открывает день. | ✅ |
+| RS-61 | «Overdue»: заголовок-кнопка (`button.ag-over-head`) 13 px, 600, `--ink` (сейчас `--todo`), стрелка сворачивания и счётчик по RS-14. Содержимое — блок без рамки: фон `--bg`, угол `--r-m`, поля 14 и 16 px. Сделано. | Замер; сворачивание работает. | ✅ |
+| RS-62 | Заголовок дня (`.ag-day`) стоит над карточкой, а не внутри неё: день недели 20 px, 700, −0,015em, `--ink`; дата (`.num`) 13 px, `--faint`; справа итог (`.ag-sum`) 13 px, `--faint`. 10 px до карточки. Сделано: строки дня — в `.ag-rows` внутри `.ag-card.is-day`. | Замер: заголовок выше верхнего края рамки. | ✅ |
+| RS-63 | Сегодня: вместо даты — плашка «Today» (`.today-pill`) с заглавной буквы: фон `--cta`, текст `--on-accent`, 12 px 600, угол `--r-xs`, поля 2 и 8 px. Акцентной рамки у сегодняшней карточки нет (`agenda.css:45` удаляется). Сделано. | Замер; текст «Today» и «Сегодня». | ✅ |
+| RS-64 | Карточка дня (`.ag-card`): рамка 1 px `--line`, угол `--r-m`, фон `--win`, поля 6 px сверху и снизу, 16 px по бокам. Строки разделены линией 1 px `--line`; у первой линии нет. Сделано. | Замер. | ✅ |
+| RS-65 | Пустой день — одна приглушённая строка без рамки и фона (UI-15): день недели 14 px, 500, `--muted`; дата 13 px, `--faint`. Сделано. | Тест UI-15 в `tests/calendar.test.mjs` проходит. | ✅ |
+| RS-66 | Строка (`.ag-row`): поля 10 px сверху и снизу, шаг 16 px. Время (`.ag-time`): колонка 92 px, 13 px, `--faint`, табличные цифры. Название: 14 px, 500, `--ink`. Справа чип вида записи («Scheduled», «Deadline», «Closed») по RS-52 и RS-53. Выбранная с клавиатуры строка — как сейчас, с кольцом. Сделано; на телефоне колонка времени прежняя, 7ch. | `tests/a11y.test.mjs` (проход по повестке) проходит. | ✅ |
+| RS-67 | Событие без состояния задачи получает метку перед названием (`.ag-ev-bar`, новый элемент): 3 × 20 px, угол 2 px, `--muted`. Сделано: метка у записей вида `event`. | Замер у «Lunch with Marta» в демо-хранилище. | ✅ |
+| RS-68 | Линия «сейчас» (`.ag-grid.now`): время 13 px, 600, `--ink`; линия 2 px `--accent` (сейчас `--now`). Сетка часов (UI-14) — линии 1 px `--line`, подписи 13 px `--faint`. Сделано (линия «сейчас» — на этапе 3). | Тест UI-14 проходит; замер цвета линии. | ✅ |
+| RS-69 | Закрытая задача в журнале: галочка в круге `--cta`, название зачёркнуто, `--faint`, чип «Closed» обычного тона. Так уже было после этапа 3. | Снимок с включённым «Log». | ✅ |
+| RS-70 | Месяц (`button.ag-mday`): рамка `--line`, угол `--r-m`; сегодня — число в круге 24 px с фоном `--cta` и текстом `--on-accent` вместо акцентной рамки; счётчик (`.cnt`) — `--panel-strong`, `--ink`. Сделано. | Замер; TASK-4 проходит. | ✅ |
+| RS-71 | Строка клавиш (`.ag-help`): 12 px, `--faint`; на устройствах без наведения скрыта (UI-11). Так уже было. | `tests/phone.test.mjs`. | ✅ |
 
 ## 10. Телефон
 
